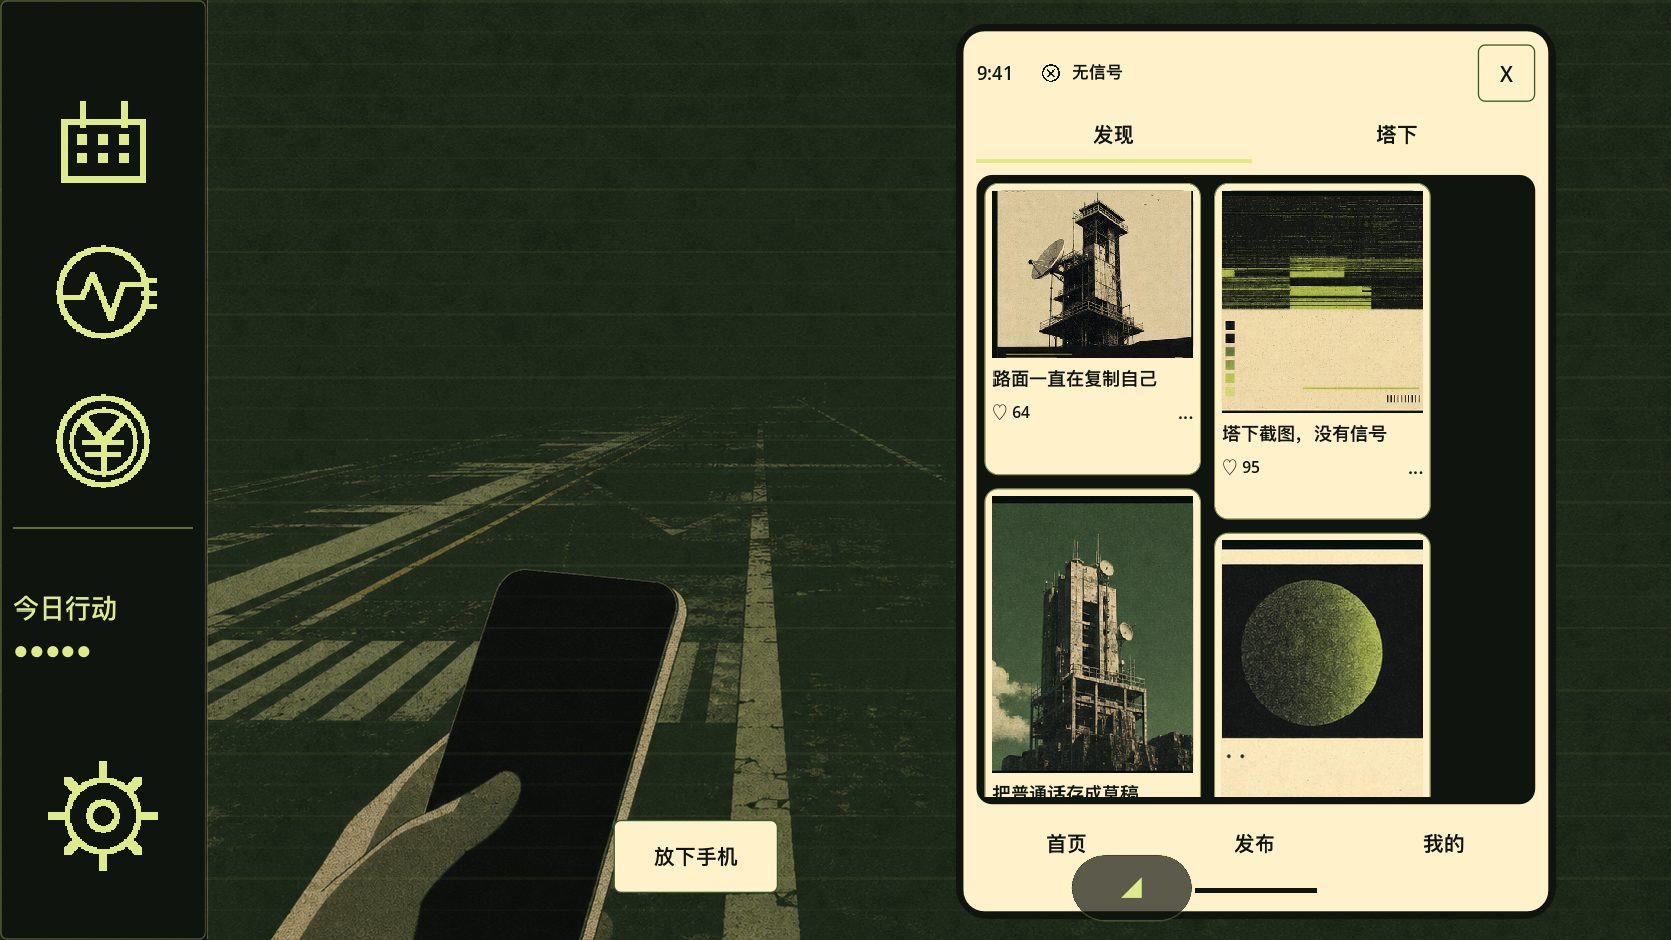
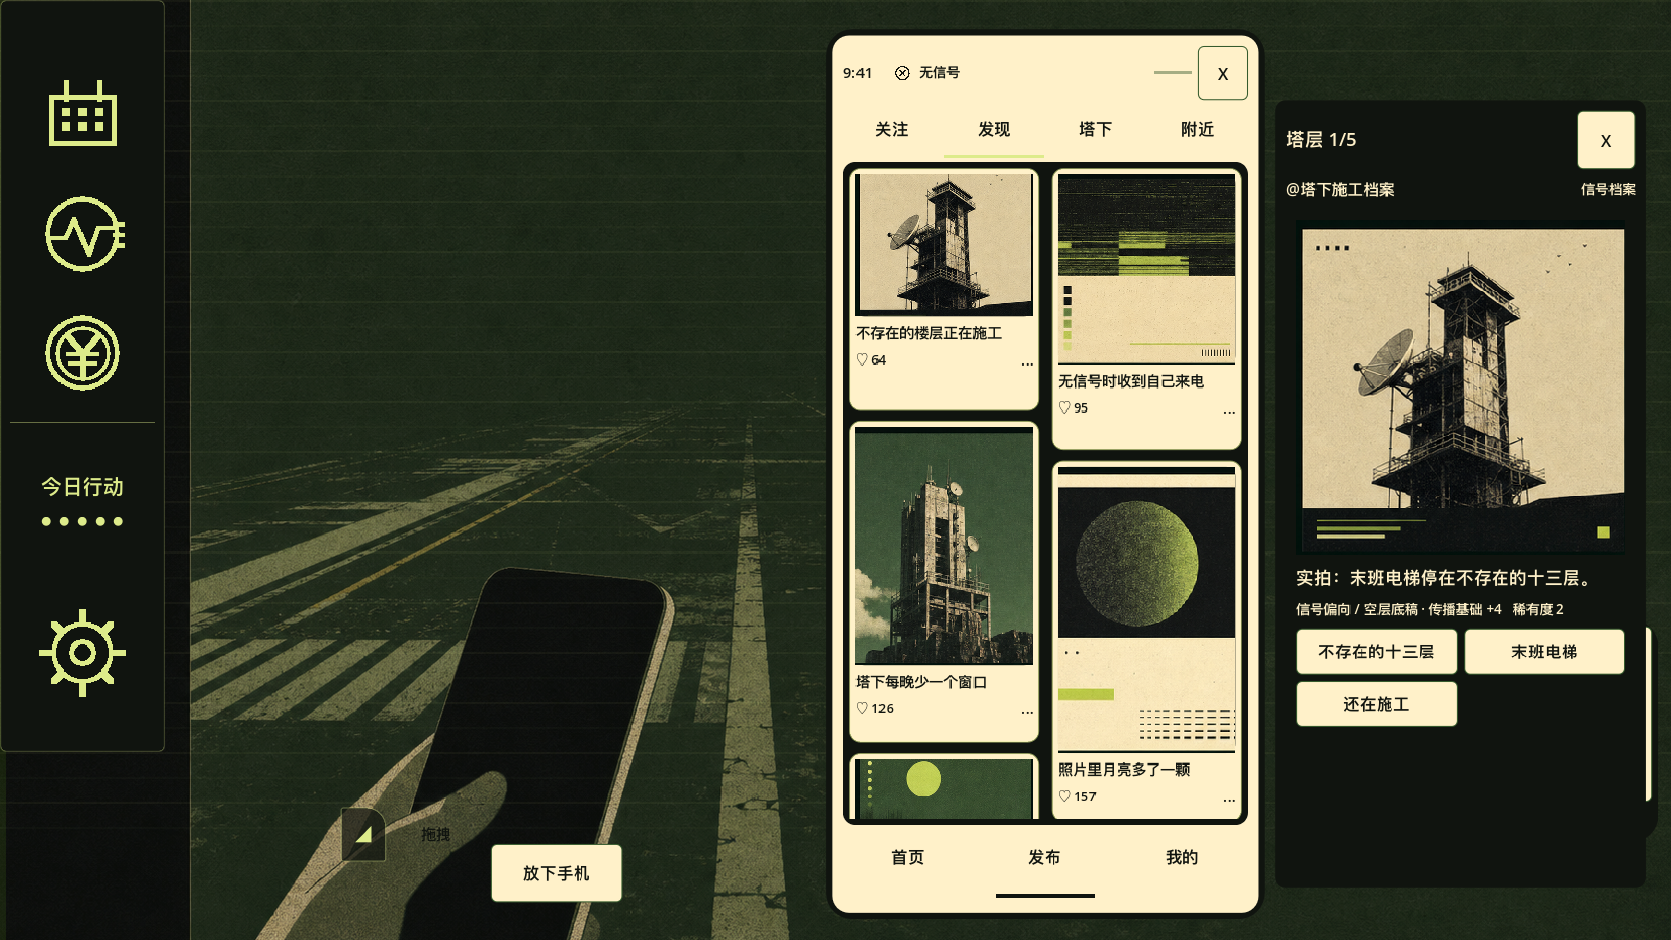
Match social phone composition and add NPC art

diff --git a/tools/generate_visual_assets.py b/tools/generate_visual_assets.py
@@ -25,6 +25,7 @@ ROOT = os.path.dirname(os.path.dirname(os.path.abspath(__file__)))
 
 CURATED_IMAGEGEN_ASSETS = {
[3 lines of base64/hex data omitted]
 }
 